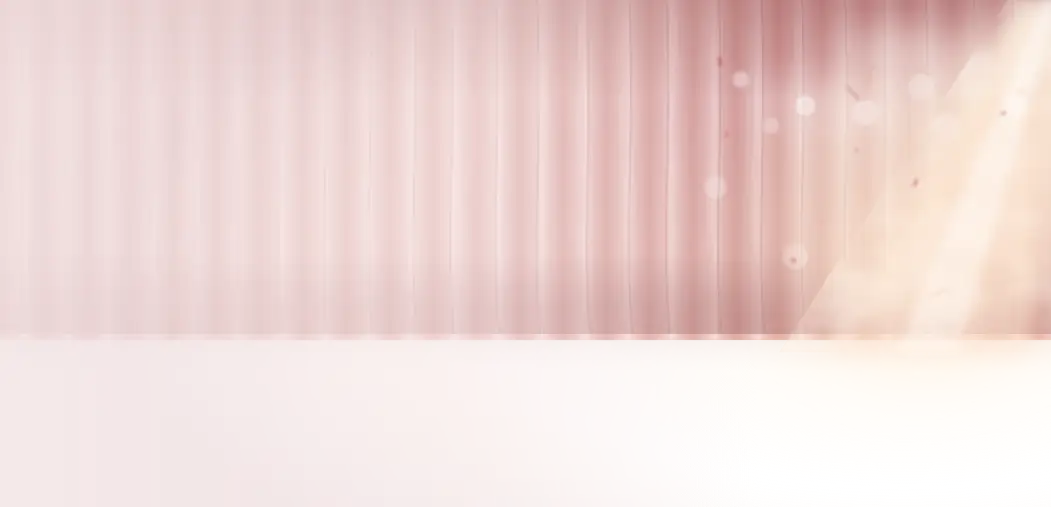
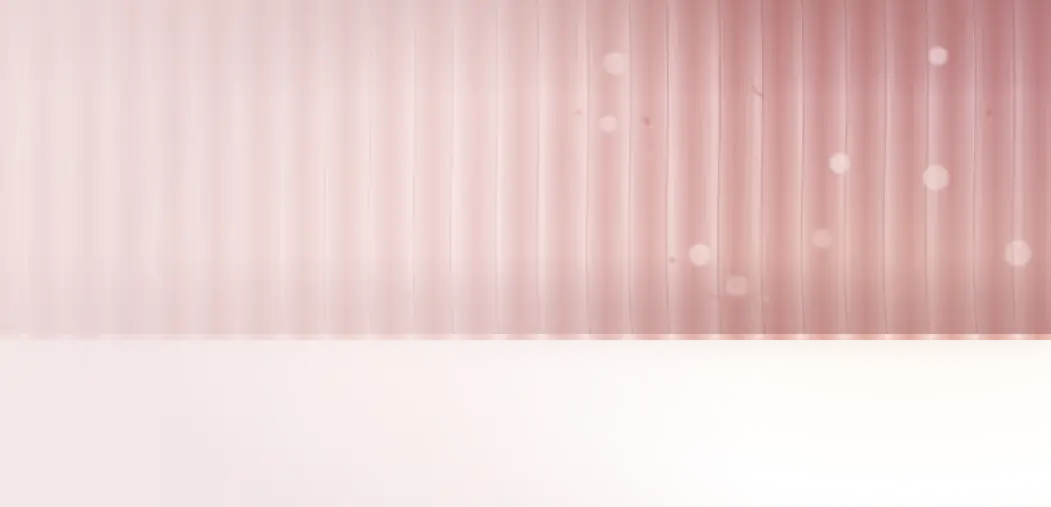
óte's lanyard, round 5: the microphone tall in the card's middle under its spot
Owner: not tucked under the medallion; in the empty middle between the text and the medallion,
standing tall, its head at the name's height, the spot falling on it from above. The spot
(beam, haze, pool) now drawn with the microphone, so a 320 px card, whose text runs to the
medallion, stands the two smaller under the medallion (a container query). Clear of a long
name at both widths.

diff --git a/web/src/ui/ClubScene.svelte b/web/src/ui/ClubScene.svelte
@@ -107,7 +107,7 @@
          footlights, a heavy valance with fringe and tassels, the side curtain tied back, the microphone's chrome and cast
          shadow, confetti in and out of focus -->
     {#if wide}<img class="l z far" src={L('ote-far')} alt="" /><img class="l" src={L('ote-ground')} alt="" /><img class="l z near" src={L('ote-arch')} alt="" />
-      <img class="l z near" src={L('ote-mic')} alt="" />
+      <img class="l z near otm" src={L('ote-mic')} alt="" />
     {:else}<img class="l" src={L('ote-stage')} alt="" /><img class="word otw" src={oteWord} alt="" />{/if}
     <i class="fall"></i>
   {:else if look === 'klubanimeshnikov'}
@@ -302,6 +302,10 @@
   /* ---- óte: their blush, lit from the top right ---- */
   .teentertainmentkbtu { background: radial-gradient(70% 90% at 100% 0%, rgba(255, 255, 255, 0.55), transparent 70%), linear-gradient(165deg, rgb(248, 235, 234), rgb(243, 224, 224) 55%, rgb(236, 206, 205)); }
   .otw { top: 26px; height: 60px; }
+  /* round 5 (owner): the microphone and its spot stand in the card's middle, between the text and the medallion; a 320 px
+     card has no middle to spare (its text runs to the medallion), so there they stand smaller under the medallion */
+  .teentertainmentkbtu.wide { container-type: inline-size; }
+  @container (max-width: 310px) { .otm { translate: 53px 0; scale: 0.62; transform-origin: calc(100% - 93px) calc(100% - 42px); } }
   /* confetti falling, a tile per period, kept off the text (to the right on the card) */
   .fall { left: 0; top: -120px; width: 100%; height: calc(100% + 120px); background: url('../assets/lanyards/scenes/ote-fall.svg') 0 0 / 120px 120px; opacity: 0.8;
     -webkit-mask: linear-gradient(90deg, transparent 45%, black 75%); mask: linear-gradient(90deg, transparent 45%, black 75%); animation: otfall 30s linear infinite; }
